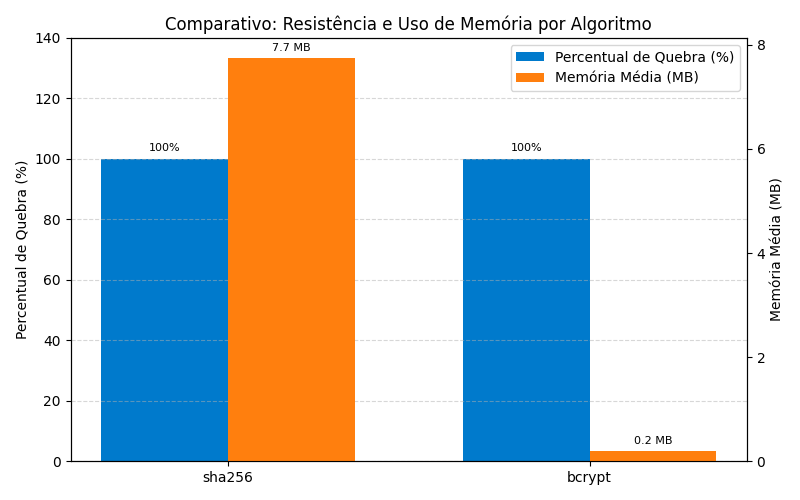
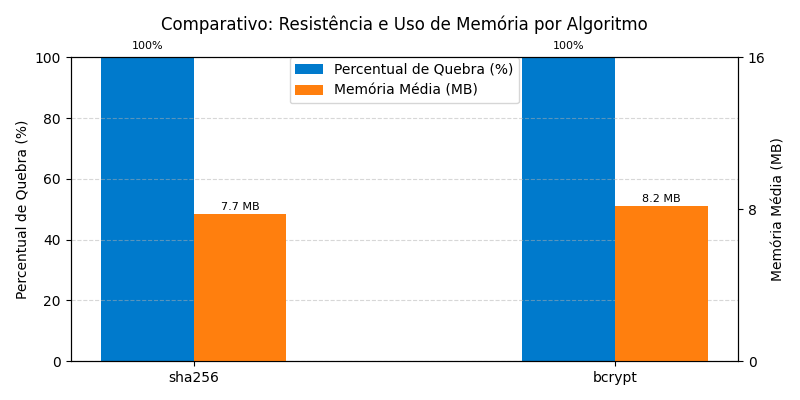
Novos gráficos e tabelas gerados

diff --git a/scripts/prepare_results.py b/scripts/prepare_results.py
@@ -84,11 +84,11 @@ else:
     server_df = pd.DataFrame()
 
 # --- 5) Gráfico combinado (Percentual quebrado x Memória média) ---
-fig, ax1 = plt.subplots(figsize=(8, 5))
+fig, ax1 = plt.subplots(figsize=(8, 4))
 
 algorithms = ["sha256", "bcrypt"]
 x = np.arange(len(algorithms))
-width = 0.35
+width = 0.22
 
 percent_data = john_results_df.set_index("algoritmo").loc[algorithms]["percentual_quebrado"]
 memory_data = monitor_summary_df.set_index("algoritmo").loc[algorithms]["memoria_media_MB"]
@@ -102,7 +102,7 @@ bar1 = ax1.bar(
 )
 
 ax1.set_ylabel("Percentual de Quebra (%)")
-ax1.set_ylim(0, 140)
+ax1.set_ylim(0, 100)
 ax1.tick_params(axis='y')
 
 ax2 = ax1.twinx()
@@ -115,16 +115,23 @@ bar2 = ax2.bar(
 )
 
 ax2.set_ylabel("Memória Média (MB)")
-ax2.set_yticks(np.arange(0, max(memory_data)+2, 2))
+ax2.set_yticks(np.arange(0, max(memory_data)+8, 8))
 ax2.tick_params(axis='y')
 
 ax1.set_xticks(x)
 ax1.set_xticklabels(algorithms)
-ax1.set_title("Comparativo: Resistência e Uso de Memória por Algoritmo")
+ax1.set_title(
+    "Comparativo: Resistência e Uso de Memória por Algoritmo",
+    pad=20
+)
 
 bars = [bar1[0], bar2[0]]
 labels = ["Percentual de Quebra (%)", "Memória Média (MB)"]
-ax1.legend(bars, labels, loc="upper right")
+ax1.legend(
+    bars, labels,
+    loc="upper center",
+    borderaxespad=0
+)
 
 ax1.grid(axis="y", linestyle="--", alpha=0.5)
 
